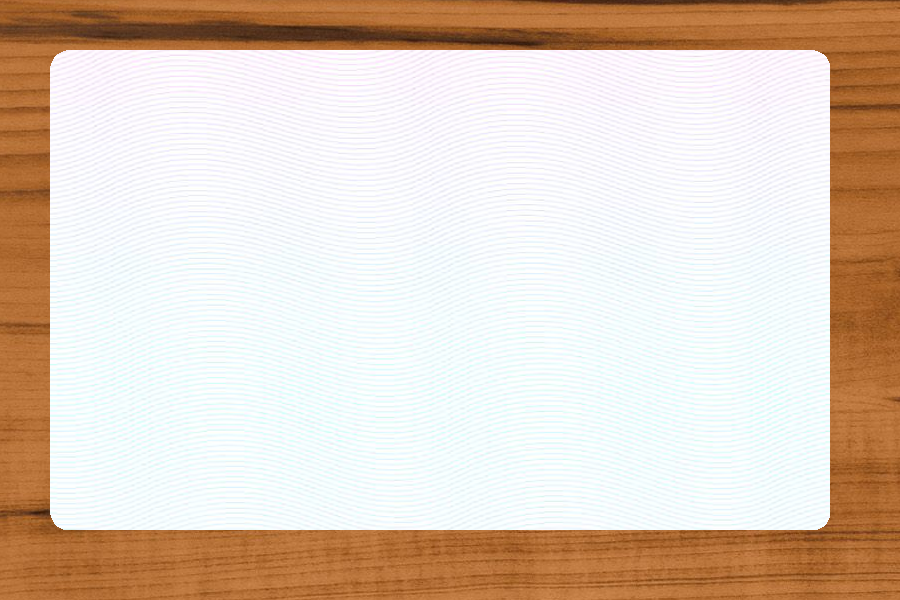
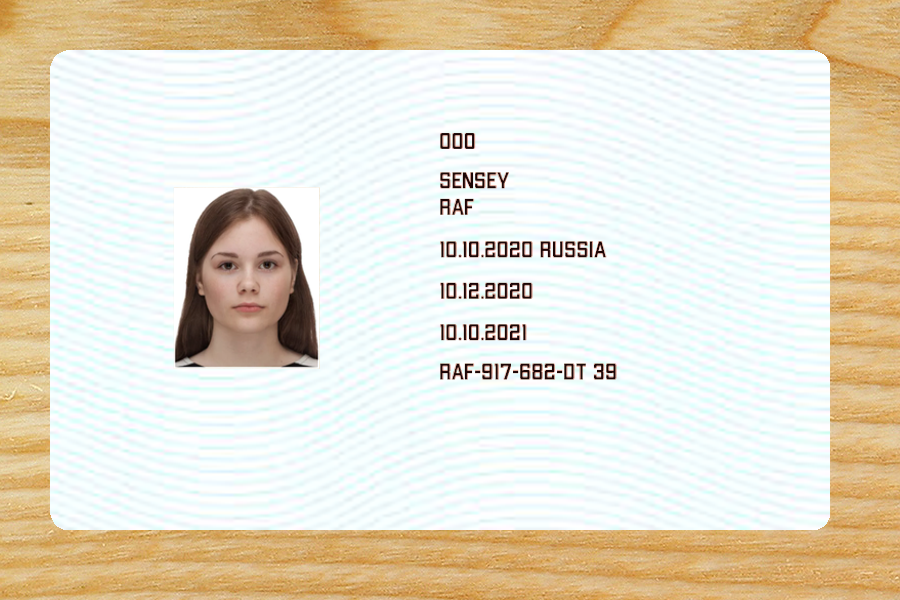
merge two algorithms

diff --git a/main.py b/main.py
@@ -1,5 +1,7 @@
 from PIL import Image, ImageFont, ImageDraw, ImageOps
 import random
+from random import randint, choice
+import os
 
 data = ["name", "surname", "burthDate", "Country", "Obl", "date1", "date2", "data3", "country2", "obl2", "categories"]
 
@@ -39,12 +41,12 @@ def generateToken():
     return str
 
 img1 = Image.open('sample.png')
+img1 = Image.new(mode = "RGBA", size = (780,480), color = (255, 0, 0, 0))
 
 img2 = Image.open('photos/1.png')
 img2.thumbnail((142, 191), Image.ANTIALIAS)
 
 img1.paste(img2, (121, 195))
-img1.save('result.png')
 
 finImg = ImageDraw.Draw(img1)
 
@@ -123,12 +125,85 @@ img1.paste( ImageOps.colorize(w, (0,0,0), (0,0,0)), (800,-125),  w)
 
 img1.save('result.png')
 
-img1.paste(img2, (70, 170))
 
 
+canvas = Image.new(mode = "RGBA", size = (900,600))
+
+### working with the main canvas backround
+
+randpath_bg = choice(os.listdir('bgs'))
+
+bg = Image.open('bgs/' + randpath_bg)
+
+def random_bg_crop():
+    left = randint(0,200)
+    upper = randint(0,200)
+    right = left + 900
+    bottom = upper + 600
+    return((left, upper, right, bottom))
+
+newbg = bg.crop(random_bg_crop())
+
+canvas.paste(newbg, (0,0))
+
+### working with the card obj
+
+card = Image.new(mode = "RGBA", size = (780,480))
+
+### add border radius
+
+def add_corners(im, rad):
+    circle = Image.new('L', (rad * 2, rad * 2), 0)
+    draw = ImageDraw.Draw(circle)
+    draw.ellipse((0, 0, rad * 2, rad * 2), fill=255)
+    alpha = Image.new('L', im.size, 255)
+    w, h = im.size
+    alpha.paste(circle.crop((0, 0, rad, rad)), (0, 0))
+    alpha.paste(circle.crop((0, rad, rad, rad * 2)), (0, h - rad))
+    alpha.paste(circle.crop((rad, 0, rad * 2, rad)), (w - rad, 0))
+    alpha.paste(circle.crop((rad, rad, rad * 2, rad * 2)), (w - rad, h - rad))
+    im.putalpha(alpha)
+    return im
 
 
+### adding the waves
 
+waves = Image.new(mode = "RGBA", size = (780,480))
+randpath_waves = choice(os.listdir('waves'))
+wavesbg = Image.open('waves/' + randpath_waves)
+randcrop = (randint(0,200), randint(0, 200), randint(300, 600), randint(300, 600))
+newwavesbg = wavesbg.crop(randcrop)
+#resize the waves
+aspect_ratio = 780/480
+sizeval = randint(200,500)
+newsize = (780, 480)
+newwavesbg = newwavesbg.resize(newsize)
+waves = add_corners(newwavesbg, 20)
+
+### assembling the image
+
+card.paste(waves, (0,0))
+
+def changeImageSize(maxWidth, 
+                    maxHeight, 
+                    image):
+    
+    widthRatio  = maxWidth/image.size[0]
+    heightRatio = maxHeight/image.size[1]
+
+    newWidth    = int(widthRatio*image.size[0])
+    newHeight   = int(heightRatio*image.size[1])
+
+    newImage    = image.resize((newWidth, newHeight))
+    return newImage
+
+final_shit = changeImageSize(800,510, img1)
+
+card.paste(final_shit, (0,-70), final_shit)
+
+canvas.paste(card, (50,50), card)
+
+canvas.save('canvas.png')
 
 
 
